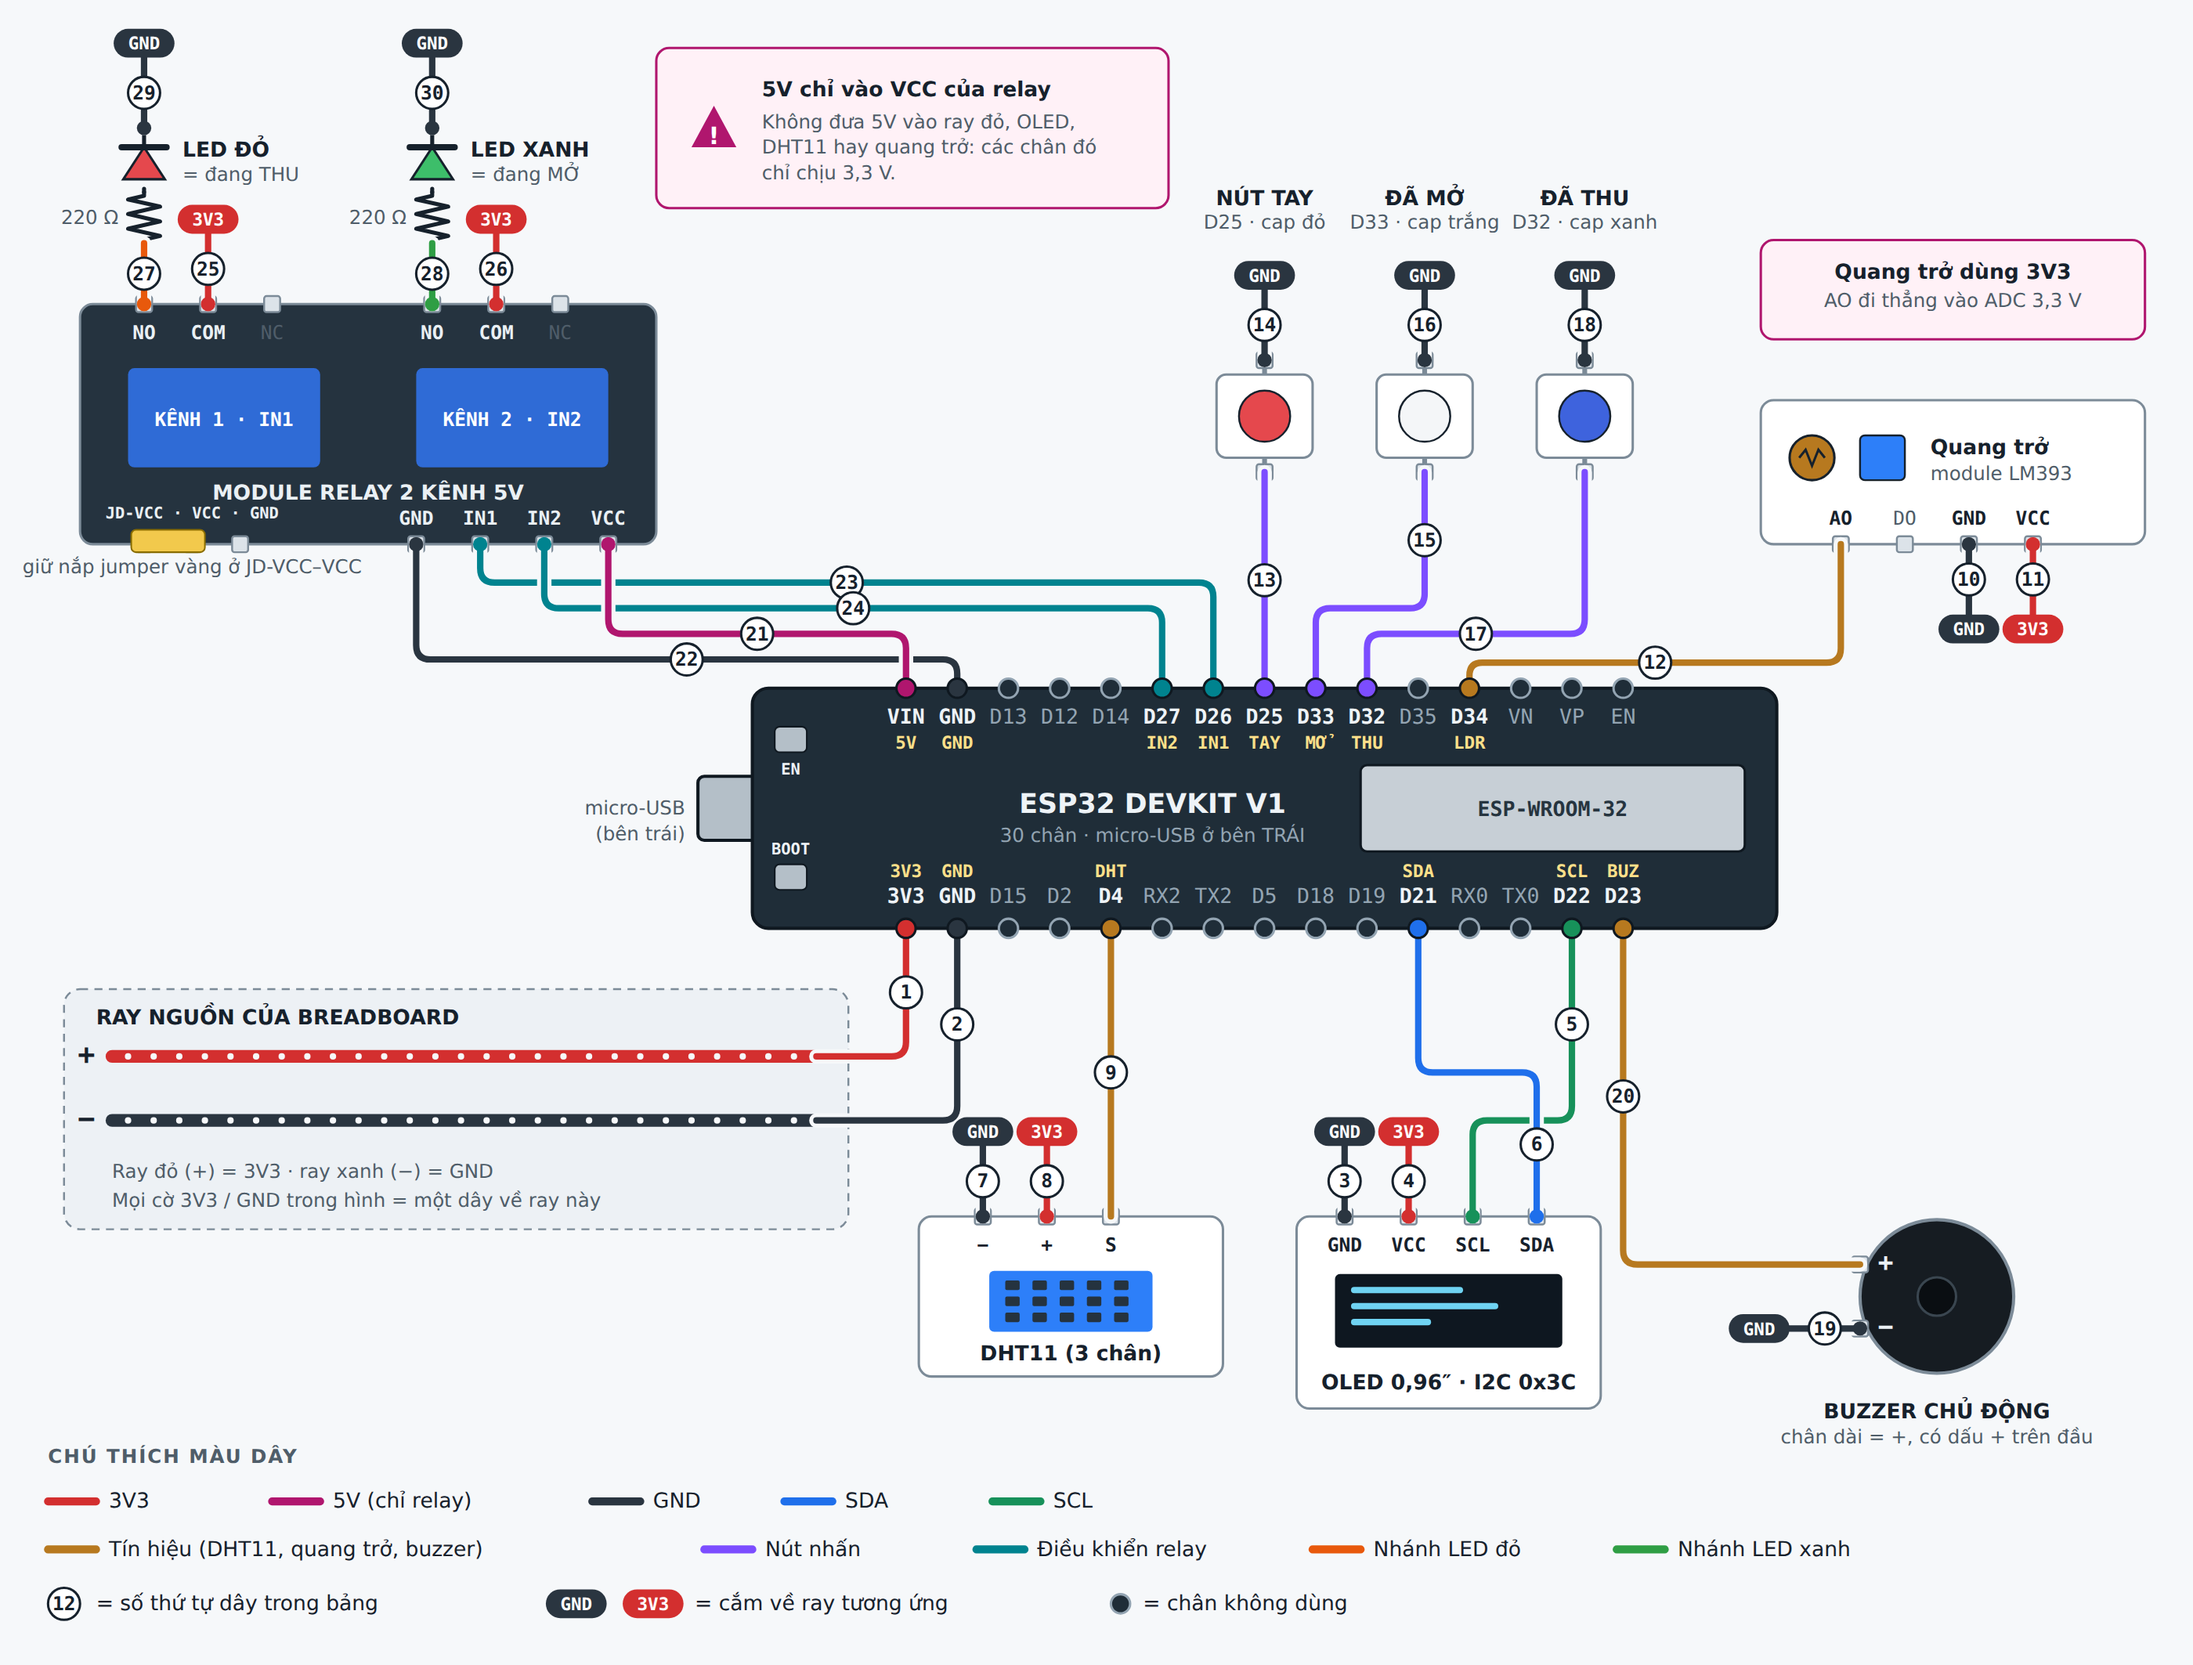
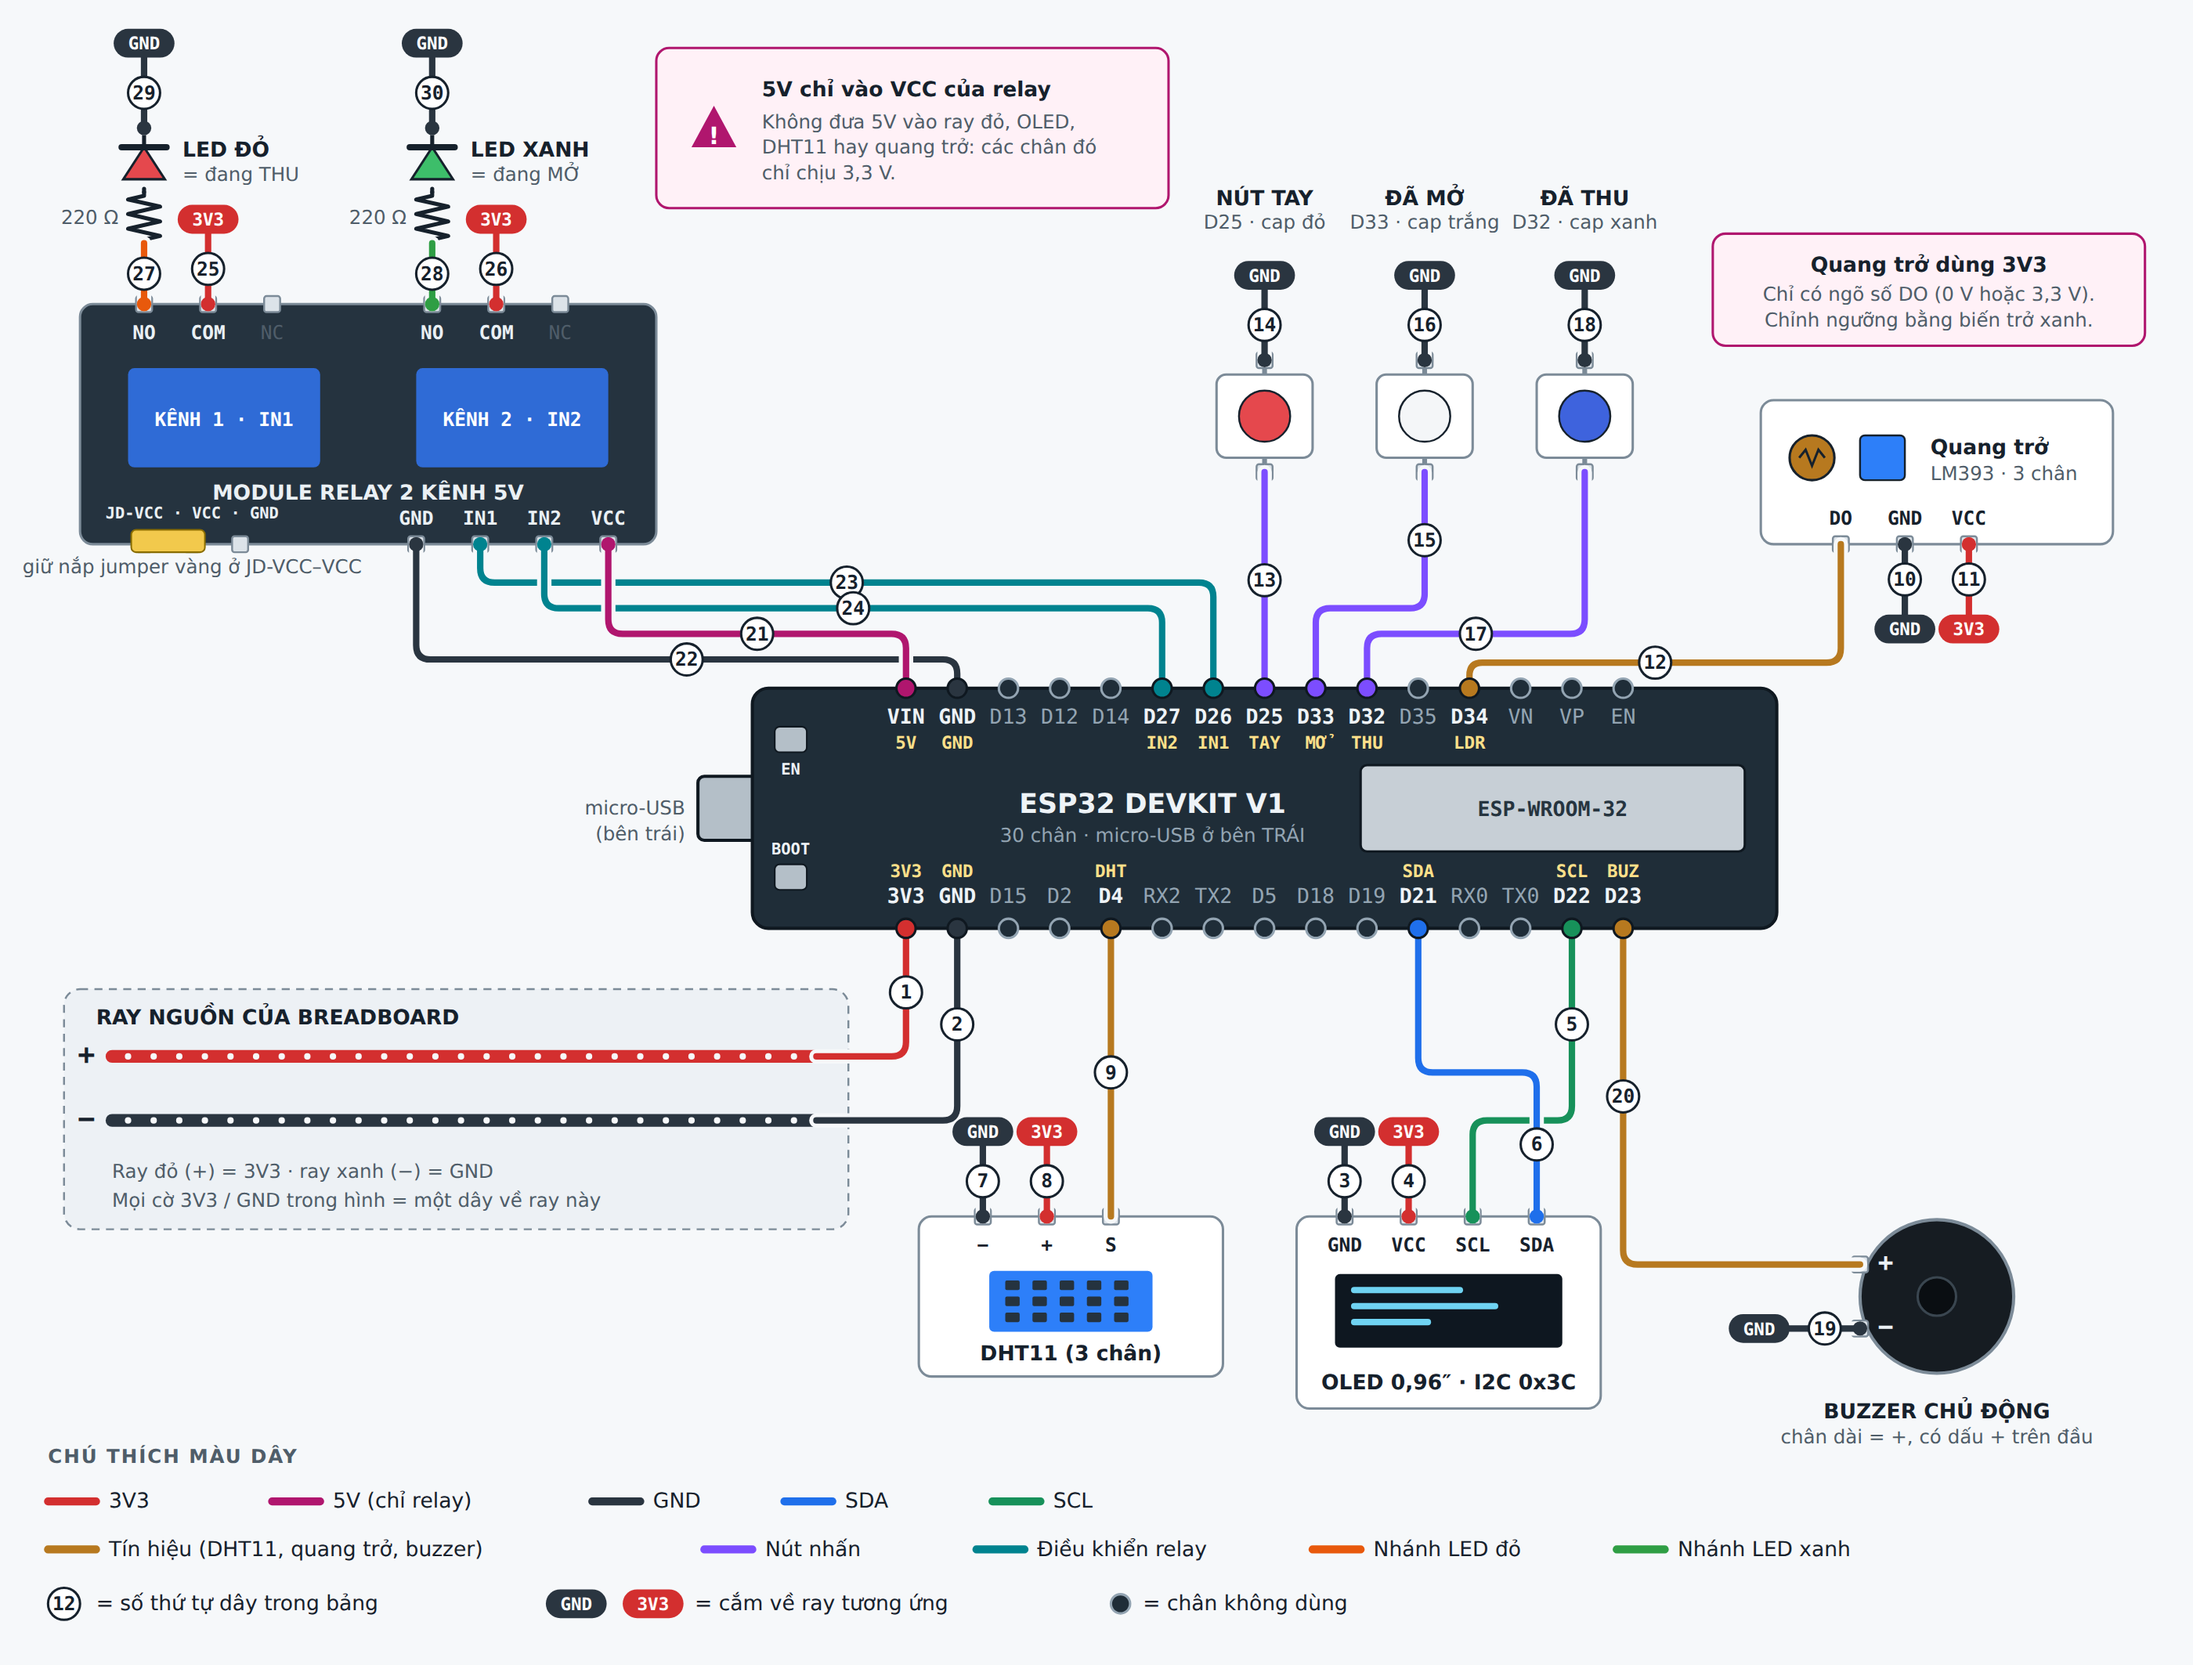
Docs: the kit's light sensor module has only a digital output (DO), no AO
The kit-list photo shows a 3-pin LM393 module (DO, GND, VCC). The wiring docs and
the new wiring diagram assumed an analog AO pin, which does not exist. DO is
either ~0 V or 3.3 V depending on a threshold set with the blue trimmer, so
light_raw only takes two values (~0 and ~4095); the existing analogRead path
handles that without code changes.

- wiring.md: pin row and calibration section rewritten for the DO module
  (trimmer, DO LED, LDR_INVERT when covering makes light_raw go UP)
- bringup.md, firmware/README.md, config.h comments, mqtt-topics.md, openapi.yaml
  description: same correction
- wiring-diagram.(svg|png): 3-pin module, wire 12 goes to DO

No behaviour change; native tests (76) and the OpenAPI/docs contract tests pass.

Claude-Session: https://claude.ai/code/session_01RQXV6j1b7hEo9LnoivfTQv

Changed region(s): [[0.7768, 0.1242, 0.9632, 0.2173], [0.8389, 0.2794, 0.9632, 0.4036]]

diff --git a/firmware/include/config.h b/firmware/include/config.h
@@ -5,7 +5,7 @@
 
 // ---- Chân (docs/wiring.md) ----------------------------------------------------
 #define PIN_DHT 4            // DHT11 DATA
-#define PIN_LDR 34           // AO của module quang trở (ADC1, chỉ input)
+#define PIN_LDR 34           // DO (module 3 chân của kit) hoặc AO (module 4 chân) của quang trở; ADC1, chỉ input
 #define PIN_I2C_SDA 21       // OLED SSD1306
 #define PIN_I2C_SCL 22
 #define PIN_RELAY_CLOSE 26   // relay CH1: THU giàn
@@ -23,8 +23,8 @@
 // Relay của kit kích mức thấp: LOW = hút. Đặt 0 nếu dùng module kích mức cao.
 #define RELAY_ACTIVE_LOW 1
 
-// Firmware quy ước light: cao = sáng (0..4095). Nếu module quang trở của bạn cho AO
-// GIẢM khi sáng (che tối mà số tăng) thì đặt 1. Cách hiệu chỉnh: README.md, mục "Quang trở".
+// Firmware quy ước light: cao = sáng (0..4095). Nếu che tối mà light_raw TĂNG thì đặt 1
+// (module DO của kit thường cần 1). Cách hiệu chỉnh: docs/wiring.md, mục "Hiệu chỉnh quang trở".
 #define LDR_INVERT 0
 
 // ---- Ngưỡng fail-safe khi thời tiết từ backend đã cũ ---------------------------

diff --git a/docs/wiring.md b/docs/wiring.md
@@ -1,7 +1,7 @@
 # Sơ đồ nối dây (ESP32 DEVKIT V1, 30 chân)
 
 **Sơ đồ hình toàn mạch (30 dây, chia 7 giai đoạn):** [`wiring-diagram.svg`](wiring-diagram.svg) (bản PNG: [`wiring-diagram.png`](wiring-diagram.png)).
-Các chân GPIO trong hình đã được đối chiếu với `firmware/include/config.h`. Thứ tự chân của module quang trở và thứ tự NO/COM/NC của relay trong hình là giả định
+Các chân GPIO trong hình đã được đối chiếu với `firmware/include/config.h`. Thứ tự chân của module quang trở (DO, GND, VCC) và thứ tự NO/COM/NC của relay trong hình là giả định
 (tài liệu kit không ghi): luôn đọc nhãn in trên module.
 
 ![Sơ đồ đi dây toàn mạch](wiring-diagram.svg)
@@ -17,7 +17,7 @@ ADC2 (GPIO 0, 2, 4, 12–15, 25–27) **không đọc được khi bật WiFi**,
 | Linh kiện | Chân linh kiện | ESP32 | Ghi chú |
 |---|---|---|---|
 | DHT11 (module 3 chân) | DATA | GPIO4 | VCC 3.3V, GND. Module đã có trở kéo lên |
-| Module quang trở | AO | GPIO34 (ADC1) | VCC 3.3V. Cực tính tuỳ module, xem mục "Hiệu chỉnh quang trở" |
+| Module quang trở (3 chân: DO, GND, VCC) | **DO** | GPIO34 (ADC1) | VCC 3.3V. Module của kit **không có chân AO**, chỉ có ngõ số DO (0 V hoặc 3,3 V). Ngưỡng sáng/tối chỉnh bằng biến trở xanh trên module, xem mục "Hiệu chỉnh quang trở" |
 | OLED 0.96" SSD1306 | SDA / SCL | GPIO21 / GPIO22 | VCC 3.3V, địa chỉ 0x3C |
 | Relay CH1 (**thu** giàn) | IN1 | GPIO26 | VCC relay → **5V/VIN**, GND chung. Kích mức thấp (LOW = hút) |
 | Relay CH2 (**mở** giàn) | IN2 | GPIO27 | Như trên |
@@ -37,13 +37,18 @@ Mỗi kênh relay đóng cắt một LED, nên nghe được tiếng relay và t
 Kênh 1 dùng LED đỏ, kênh 2 dùng LED xanh lục. Về sau thay LED bằng motor DC + nguồn ngoài thì **không phải sửa firmware**.
 
 ## Hiệu chỉnh quang trở
-Tài liệu kit không có module quang trở nên chưa biết ngõ AO tăng hay giảm khi trời sáng (mỗi hãng một kiểu).
+Module quang trở của kit (LM393, 3 chân: DO, GND, VCC) **chỉ có ngõ số DO**, không có ngõ tương tự AO. DO chỉ ở hai mức, gần 0 V hoặc 3,3 V, tuỳ ánh sáng
+đang mạnh hơn hay yếu hơn ngưỡng đặt bằng **biến trở xanh** trên module. Vì vậy `light_raw` trong serial chỉ nhận hai giá trị (gần 0 và gần 4095), không đổi từ từ.
 Firmware quy ước `light` **cao = sáng** (0..4095). Cách hiệu chỉnh:
 
-1. Nạp firmware, mở serial monitor (115200). Firmware in `light_raw` mỗi giây.
-2. Che module bằng tay rồi chiếu đèn pin vào, quan sát số thay đổi thế nào.
-3. Nếu che tối mà số **tăng** thì đặt `LDR_INVERT = true` trong `firmware/include/config.h`.
-4. Đặt `LOCAL_DARK_BELOW` cao hơn giá trị "che tối" một chút (mặc định 800).
+1. Cấp nguồn. Trên module có hai đèn nhỏ: đèn nguồn và đèn DO (báo mức đầu ra).
+2. Vặn biến trở xanh bằng tua vít nhỏ cho tới khi đèn DO đổi trạng thái đúng lúc bạn che cảm biến bằng tay (hoặc tắt đèn phòng).
+3. Nạp firmware, mở serial monitor (115200), xem `light_raw` khi sáng và khi che.
+4. Nếu che tối mà `light_raw` **tăng** lên gần 4095 (thường gặp: DO lên mức cao khi tối) thì đặt `LDR_INVERT 1` trong `firmware/include/config.h`, nạp lại.
+   Khi đó `light` về gần 0 lúc tối. Che tối mà vẫn gần 0 thì ngưỡng chưa đúng: vặn tiếp biến trở.
+5. `LOCAL_DARK_BELOW` (mặc định 800) nằm giữa hai mức nên giữ nguyên.
+
+Muốn đo ánh sáng liên tục thì cần module có chân AO (loại 4 chân) hoặc quang trở rời có điện trở phân áp. Nối ngõ analog đó vào cùng GPIO34, không phải sửa code.
 
 ## An toàn
 - Chỉ dùng tải **DC điện áp thấp** qua relay. **Không nối điện 220V** khi chưa đủ hiểu biết/thiết bị bảo vệ.

diff --git a/firmware/README.md b/firmware/README.md
@@ -59,11 +59,11 @@ Giữ nút GPIO25 3 giây để bật/tắt giả lập mưa ngay trên board (b
 - **OLED** (2 Hz): `DA MO` / `DANG THU` / `DA THU` / `DANG MO` / `LOI`, nhiệt độ, độ ẩm, ánh sáng, chế độ, nguồn mưa, tuổi bản tin, cờ WiFi/MQTT.
 
 ## Hiệu chỉnh quang trở
-Tài liệu kit không có module quang trở nên chưa biết cực tính. Quy ước của firmware: `light` cao = sáng (0..4095).
-1. Nạp firmware, mở serial monitor, xem `light_raw`.
-2. Che module bằng tay rồi chiếu đèn pin, xem số đổi thế nào.
-3. Che tối mà `light_raw` **tăng** thì đặt `LDR_INVERT` = 1 trong `include/config.h`, nạp lại. Khi đó `light` sẽ giảm khi che tối.
-4. Đặt `LOCAL_DARK_BELOW` cao hơn giá trị "che tối" một chút (mặc định 800).
+Module quang trở của kit chỉ có ngõ số **DO** (không có AO), nên `light_raw` chỉ ở gần 0 hoặc gần 4095. Quy ước của firmware: `light` cao = sáng.
+1. Vặn biến trở xanh trên module cho tới khi đèn DO đổi trạng thái đúng lúc bạn che cảm biến.
+2. Mở serial monitor, xem `light_raw` khi sáng và khi che.
+3. Che tối mà `light_raw` **tăng** thì đặt `LDR_INVERT` = 1 trong `include/config.h`, nạp lại. Khi đó `light` về gần 0 lúc tối.
+Chi tiết và cách dùng module có AO: [`docs/wiring.md`](../docs/wiring.md).
 
 ## Cấu hình (`include/config.h`)
 Mọi chân, ngưỡng, thời gian nằm ở đây. Các giá trị theo contract (30 s / 15 phút / 10 phút / 30 s / 200 ms / 30 phút / 2 phút / 85% / 800) phải khớp `docs/mqtt-topics.md`; sửa thì sửa cả hai nơi.
@@ -71,7 +71,7 @@ Mọi chân, ngưỡng, thời gian nằm ở đây. Các giá trị theo contra
 | Macro | Mặc định | Ý nghĩa |
 |---|---|---|
 | `RELAY_ACTIVE_LOW` | 1 | Relay của kit hút khi IN = LOW |
-| `LDR_INVERT` | 0 | Đảo cực tính quang trở |
+| `LDR_INVERT` | 0 | Đảo cực tính quang trở (module DO của kit thường cần 1) |
 | `SIM_TRAVEL_MS` | 8000 | Chưa có motor: coi như hành trình xong sau bấy nhiêu ms (công tắc hành trình vẫn có tác dụng sớm hơn). 0 = chỉ tin công tắc |
 | `TELEMETRY_PERIOD_MS` / `TELEMETRY_MIN_GAP_MS` | 5000 / 500 | Chu kỳ telemetry / khoảng cách tối thiểu giữa hai bản tin khi trạng thái đổi dồn dập |
 | `WDT_TIMEOUT_S` | 5 | Vòng điều khiển treo quá lâu thì reset về trạng thái relay tắt |

diff --git a/docs/bringup.md b/docs/bringup.md
@@ -34,9 +34,9 @@ Nếu trống: serial có dòng `OLED not found at 0x3C`. Kiểm tra SDA = GPIO2
 
 ## 4. Cảm biến
 - **DHT11**: `T=` và `H=` trong serial là số hợp lý (không phải `--`). Thổi hơi lên cảm biến, độ ẩm phải tăng trong vài giây.
-- **Quang trở** (quan trọng vì mỗi hãng một cực tính): che module bằng tay rồi chiếu đèn pin, quan sát `light_raw` trong serial.
-  Che tối mà `light_raw` **tăng** thì đặt `LDR_INVERT 1` trong `firmware/include/config.h` và nạp lại; sau đó `light` phải **giảm** khi che tối.
-  Rồi kiểm tra `LOCAL_DARK_BELOW` (mặc định 800) cao hơn giá trị lúc che tối một chút.
+- **Quang trở** (module 3 chân DO, GND, VCC: chỉ có ngõ số): vặn biến trở xanh trên module cho tới khi đèn DO đổi trạng thái đúng lúc bạn che cảm biến.
+  `light_raw` trong serial chỉ nhảy giữa hai mức (gần 0 và gần 4095). Che tối mà `light_raw` **tăng** thì đặt `LDR_INVERT 1` trong `firmware/include/config.h`
+  và nạp lại; sau đó `light` phải về gần 0 khi che tối. Chi tiết: `docs/wiring.md`, mục "Hiệu chỉnh quang trở".
 
 ## 5. Relay và công tắc hành trình (chưa có motor nên dùng LED)
 1. Trên web bấm **Thu giàn**: relay CH1 phải kêu "tách", LED đỏ sáng khoảng 4 giây (bản demo; 8 giây bản thật), rồi tắt, web báo **Giàn đã thu**.

diff --git a/docs/mqtt-topics.md b/docs/mqtt-topics.md
@@ -29,7 +29,7 @@ Có xác thực user/password và ACL (`deploy/mosquitto/acl`). Prefix mọi top
   "uptime_s": 1234
 }
 ```
-- `temp`, `humidity`: `null` nếu DHT11 đọc lỗi. `light`: 0..4095, **cao = sáng** (firmware đã đảo cực tính nếu cần).
+- `temp`, `humidity`: `null` nếu DHT11 đọc lỗi. `light`: 0..4095, **cao = sáng** (firmware đã đảo cực tính nếu cần). Module quang trở của kit chỉ có ngõ số nên `light` chỉ ở gần 0 hoặc gần 4095.
 - `state`: `OPEN | CLOSING | CLOSED | OPENING | ERROR`. `mode`: `AUTO | MANUAL`.
 - `rain_source`: `none | api | sim | local`. `weather_age_s`: `-1` nếu chưa nhận bản tin thời tiết nào.
 - Không có `ts`: backend gán thời gian khi nhận.
